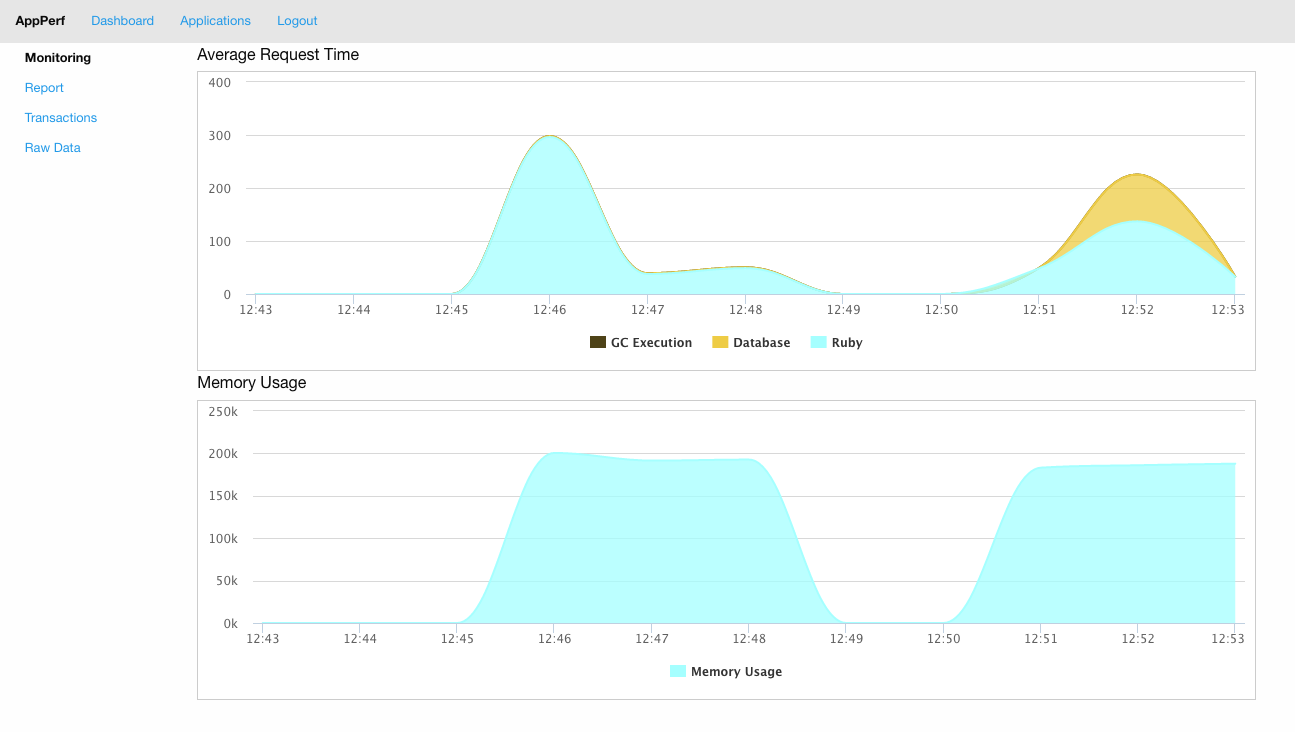
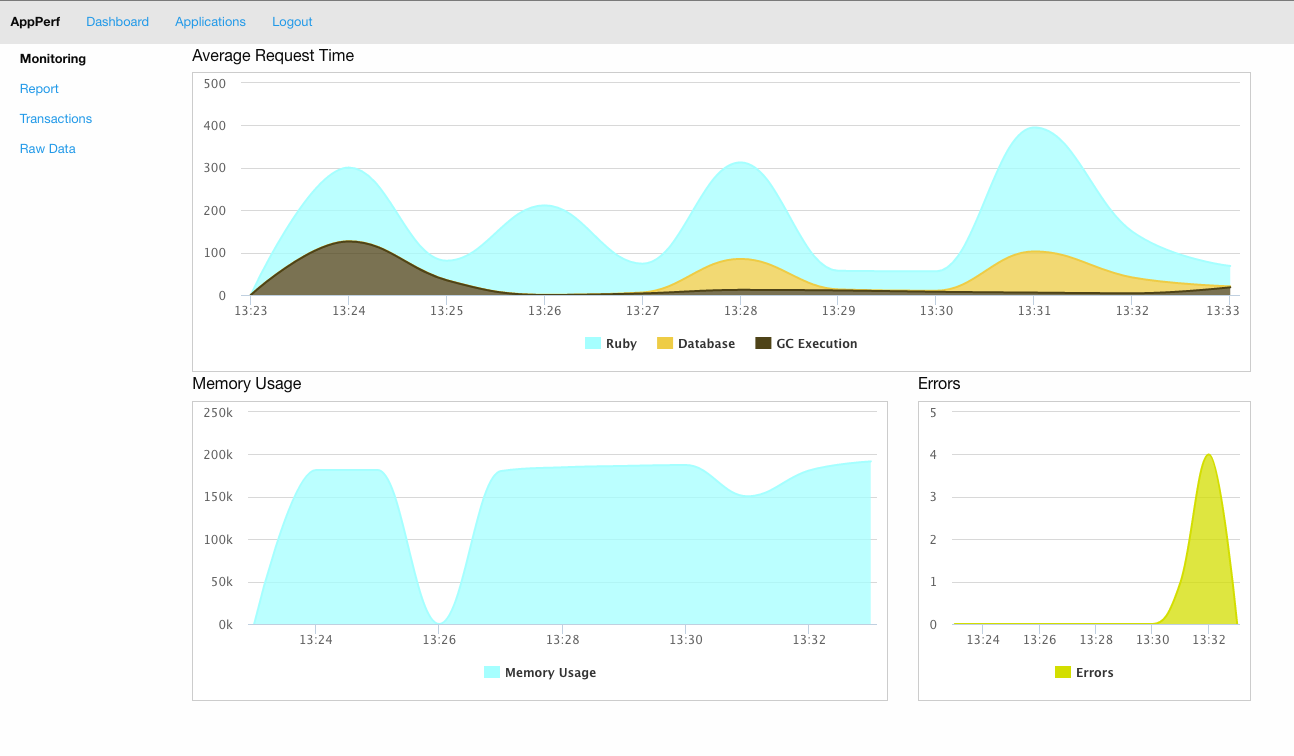
Added threaded dispatcher and cleaned up some things.

diff --git a/lib/app_perf/store.rb b/lib/app_perf/store.rb
@@ -3,49 +3,61 @@ require 'zlib'
 module AppPerf
   class Store
 
+    class VoidInstrumenter < ::ActiveSupport::Notifications::Instrumenter
+      def instrument(name, payload={})
+        yield(payload) if block_given?
+      end
+    end
+
     def initialize
-      @start_time = Time.now
-      @queue = []
-      @database_events = []
-      @view_events = []
-      @gc_events = []
+      @queue = Queue.new
     end
 
     def save(events)
       return if events.empty?
-
-      @queue += events
-
-      #root_event = AppPerf::NestedEvent.arrange(events, :presort => false)
-      #@queue.push root_event
+      @queue << events
     end
 
-    def collect_events(name, category, events)
-      events.map do |event|
-        {
-          :name => name,
-          :timestamp => event.started_at,
-          :value => event.duration
-        }
+    def initialize_dispatcher
+      thread = Thread.new do
+        set_void_instrumenter
+        start_time = Time.now
+        loop do
+          begin
+            if Time.now > start_time + 15.seconds && !@queue.empty?
+              process_data
+              dispatch_events(:event_data)
+              data.clear
+              @queue.clear
+              start_time = Time.now
+            end
+          rescue => ex
+            Rails.logger.error "ERROR: #{ex.inspect}"
+          end
+          Rails.logger.flush
+          sleep 15
+        end
       end
-    end
-
-
-    def dispatch
-      if Time.now > @start_time + 15.seconds
-
-        events = process_data(@queue.dup)
-        dispatch_events(:event_data, events)
-
-        @queue.clear
-        @start_time = Time.now
-      end
+      thread.abort_on_exception = true
     end
 
     private
 
-      def process_data(events)
-        data = []
+    def set_void_instrumenter
+      Thread.current[:"instrumentation_#{notifier.object_id}"] = VoidInstrumenter.new(notifier)
+    end
+
+    def data
+      Thread.current[:app_perf_data] ||= []
+    end
+
+    def notifier
+      ActiveSupport::Notifications.notifier
+    end
+
+    def process_data
+      while @queue.size > 0
+        events = @queue.pop
         events.group_by {|e| event_name(e) }.each_pair do |name, events_by_name|
           if name
             events_by_name.group_by {|e| round_time(e.started_at, 5).to_s }.each_pair do |timestamp, events_by_time|
@@ -62,80 +74,68 @@ module AppPerf
             end
           end
         end
-        data
       end
+    end
 
-      def round_time(t, sec = 1)
-        down = t - (t.to_i % sec)
-        up = down + sec
+    def round_time(t, sec = 1)
+      down = t - (t.to_i % sec)
+      up = down + sec
 
-        difference_down = t - down
-        difference_up = up - t
+      difference_down = t - down
+      difference_up = up - t
 
-        if (difference_down < difference_up)
-          return down
-        else
-          return up
-        end
+      if (difference_down < difference_up)
+        return down
+      else
+        return up
       end
+    end
 
-      def event_name(event)
-        case event.category
-        when "action_controller"
-          "Ruby"
-        when "active_record"
-          "Database"
-        when "action_view"
-          "Ruby"
-        when "gc"
-          "GC Execution"
-        when "memory"
-          "Memory Usage"
-        when "error"
-          "Error"
-        else
-          nil
-        end
+    def event_name(event)
+      case event.category
+      when "action_controller"
+        "Ruby"
+      when "active_record"
+        "Database"
+      when "action_view"
+        "Ruby"
+      when "gc"
+        "GC Execution"
+      when "memory"
+        "Memory Usage"
+      when "error"
+        "Error"
+      else
+        nil
       end
+    end
 
-      def save_tree(events, request_id, parent_id)
-        events.each do |event|
-          model = create_metric(event, :request_id => request_id, :parent_id => parent_id)
-          save_tree(event.children, request_id, model.id)
-        end
+    def url(method)
+      @url ||= [
+        AppPerf.config["ssl"] ? "https" : "http",
+        "://",
+        AppPerf.config["host"],
+        ":",
+        AppPerf.config["port"],
+        "/api/listener/1/#{AppPerf.config["license_key"]}/#{method}"
+      ].join
+    end
+
+    def dispatch_events(method)
+      if data.present?
+        #Thread.new {
+          uri = URI(url(method))
+          req = Net::HTTP::Post.new(uri, { "Content-Type" => "application/json", "Accept-Encoding" => "gzip", "User-Agent" => "gzip" })
+          req.body = {
+            "host" => AppPerf.host,
+            "events" => data
+          }.to_json
+          res = Net::HTTP.start(uri.hostname, uri.port) do |http|
+            http.read_timeout = 5
+            http.request(req)
+          end
+        #}
       end
-
-      def url(method)
-        @url ||= [
-          AppPerf.config["ssl"] ? "https" : "http",
-          "://",
-          AppPerf.config["host"],
-          ":",
-          AppPerf.config["port"],
-          "/api/listener/1/#{AppPerf.config["license_key"]}/#{method}"
-        ].join
-      end
-
-      def dispatch_events(method, events)
-        if events.present?
-          Thread.new {
-            uri = URI(url(method))
-            req = Net::HTTP::Post.new(uri, { "Content-Type" => "application/json", "Accept-Encoding" => "gzip", "User-Agent" => "gzip" })
-            req.body = {
-              "host" => AppPerf.host,
-              "events" => events
-            }.to_json
-            res = Net::HTTP.start(uri.hostname, uri.port) do |http|
-              http.read_timeout = 5
-              http.request(req)
-            end
-          }
-        end
-      end
-
-      def create_metric(event, merge_params={})
-        AppPerf::Metric.create(event.to_hash.merge(merge_params))
-      end
-
+    end
   end
 end

diff --git a/lib/app_perf/engine.rb b/lib/app_perf/engine.rb
@@ -7,6 +7,7 @@ module AppPerf
 
     #initializer "app_perf.initialize", :before => "app_perf.start_subscriber" do |app|
       self.smc = Rails.application.config.app_perf
+      self.smc.store.initialize_dispatcher
       raise ArgumentError.new(smc.errors) if smc.invalid?
       self.collector = AppPerf::Collector.new(smc.store)
     #end
@@ -21,10 +22,12 @@ module AppPerf
 
     #initializer "app_perf.add_middleware", :before => :load_environment_config do |app|
       Rails.application.config.middleware.use AppPerf::Middleware::Base, collector, smc.path_exclude_patterns
-      Rails.application.config.middleware.use AppPerf::Middleware::RubyVm, collector, smc.path_exclude_patterns
-      Rails.application.config.middleware.use AppPerf::Middleware::Memory, collector, smc.path_exclude_patterns
-      Rails.application.config.middleware.use AppPerf::Middleware::Errors, collector, smc.path_exclude_patterns
+      #Rails.application.config.middleware.use AppPerf::Middleware::RubyVm, collector, smc.path_exclude_patterns
+      #Rails.application.config.middleware.use AppPerf::Middleware::Memory, collector, smc.path_exclude_patterns
+      #Rails.application.config.middleware.use AppPerf::Middleware::Errors, collector, smc.path_exclude_patterns
     #end
+
+    #private
 
     def process_event(event)
       instrument = smc.instruments.find { |instrument| instrument.handles?(event) }
@@ -39,4 +42,3 @@ module AppPerf
     end
   end
 end
-

diff --git a/lib/app_perf/middleware/base.rb b/lib/app_perf/middleware/base.rb
@@ -8,19 +8,32 @@ module AppPerf
       end
 
       def call(env)
+        GC::Profiler.clear
+
         if exclude_path? env["PATH_INFO"]
           @app.call(env)
         else
           @collector.collect do
-            response = notifications.instrument "request.rack",
-              :path => env["PATH_INFO"], :method => env["REQUEST_METHOD"] do
-              @app.call(env)
+            begin
+              response = notifications.instrument "request.rack", :path => env["PATH_INFO"], :method => env["REQUEST_METHOD"] do
+                @app.call(env)
+              end
+              notifications.instrument "ruby.memory"
+              notifications.instrument "ruby_vm.gc"
+            rescue Exception => e
+              handle_exception(env, e)
             end
+            response
           end
         end
       end
 
-    protected
+      protected
+
+      def handle_exception(env, exception)
+        notifications.instrument "ruby.error", :path => env["PATH_INFO"], :method => env["REQUEST_METHOD"], :error => exception
+        raise exception
+      end
 
       def exclude_path?(path)
         @path_exclude_patterns.any? { |pattern| pattern =~ path }

diff --git a/lib/app_perf/middleware/memory.rb b/lib/app_perf/middleware/memory.rb
@@ -12,8 +12,7 @@ module AppPerf
           @app.call(env)
         else
           @collector.collect do
-            response = notifications.instrument "ruby.memory",
-              :path => env["PATH_INFO"], :method => env["REQUEST_METHOD"] do
+            response = notifications.instrument "ruby.memory", :path => env["PATH_INFO"], :method => env["REQUEST_METHOD"] do
               @app.call(env)
             end
           end

diff --git a/lib/app_perf/middleware/ruby_vm.rb b/lib/app_perf/middleware/ruby_vm.rb
@@ -14,8 +14,7 @@ module AppPerf
           @app.call(env)
         else
           @collector.collect do
-            response = notifications.instrument "ruby_vm.gc",
-              :path => env["PATH_INFO"], :method => env["REQUEST_METHOD"] do
+            response = notifications.instrument "ruby_vm.gc", :path => env["PATH_INFO"], :method => env["REQUEST_METHOD"] do
               @app.call(env)
             end
           end

diff --git a/lib/app_perf/config.rb b/lib/app_perf/config.rb
@@ -3,7 +3,6 @@ module AppPerf
     attr_accessor :store, :instruments, :notification_exclude_patterns, :path_exclude_patterns, :options
 
     def initialize
-      #self.store = AppPerf::AsyncStore.new
       self.store = AppPerf::Store.new
       self.notification_exclude_patterns = []
       self.path_exclude_patterns = []

diff --git a/lib/app_perf/collector.rb b/lib/app_perf/collector.rb
@@ -19,7 +19,6 @@ module AppPerf
     ensure
       AppPerf.collection_off
       store.save events.dup
-      store.dispatch
       events.clear
     end
 
